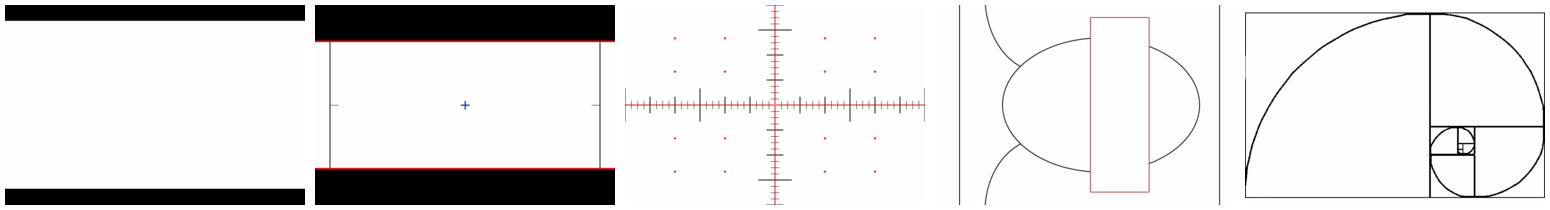
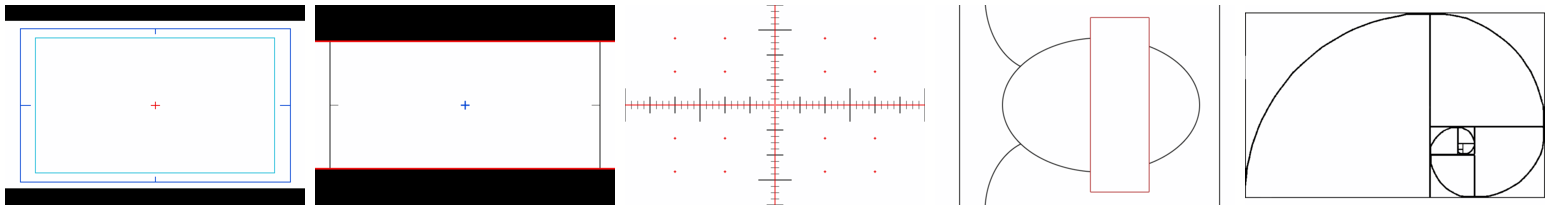
HD_TA is back

diff --git a/doc/mkdoc.py b/doc/mkdoc.py
@@ -69,7 +69,7 @@ def add_menu_items_to_contents(file):
     f.close()
 
 
-os.system("montage ../cropmks/16x9_blk.bmp ../cropmks/CineSco2.bmp ../cropmks/CrssMtr1.bmp ../cropmks/Passport.bmp  ../cropmks/PhiPhoto.bmp -tile 5x1 -geometry 300x200+5+5 Cropmarks550D.png")
+os.system("montage ../cropmks/hd_ta.bmp ../cropmks/CineSco2.bmp ../cropmks/CrssMtr1.bmp ../cropmks/Passport.bmp  ../cropmks/PhiPhoto.bmp -tile 5x1 -geometry 300x200+5+5 Cropmarks550D.png")
 
 f = open("FEATURES.txt").readlines();
 m = open("MANUAL.txt").readlines();
